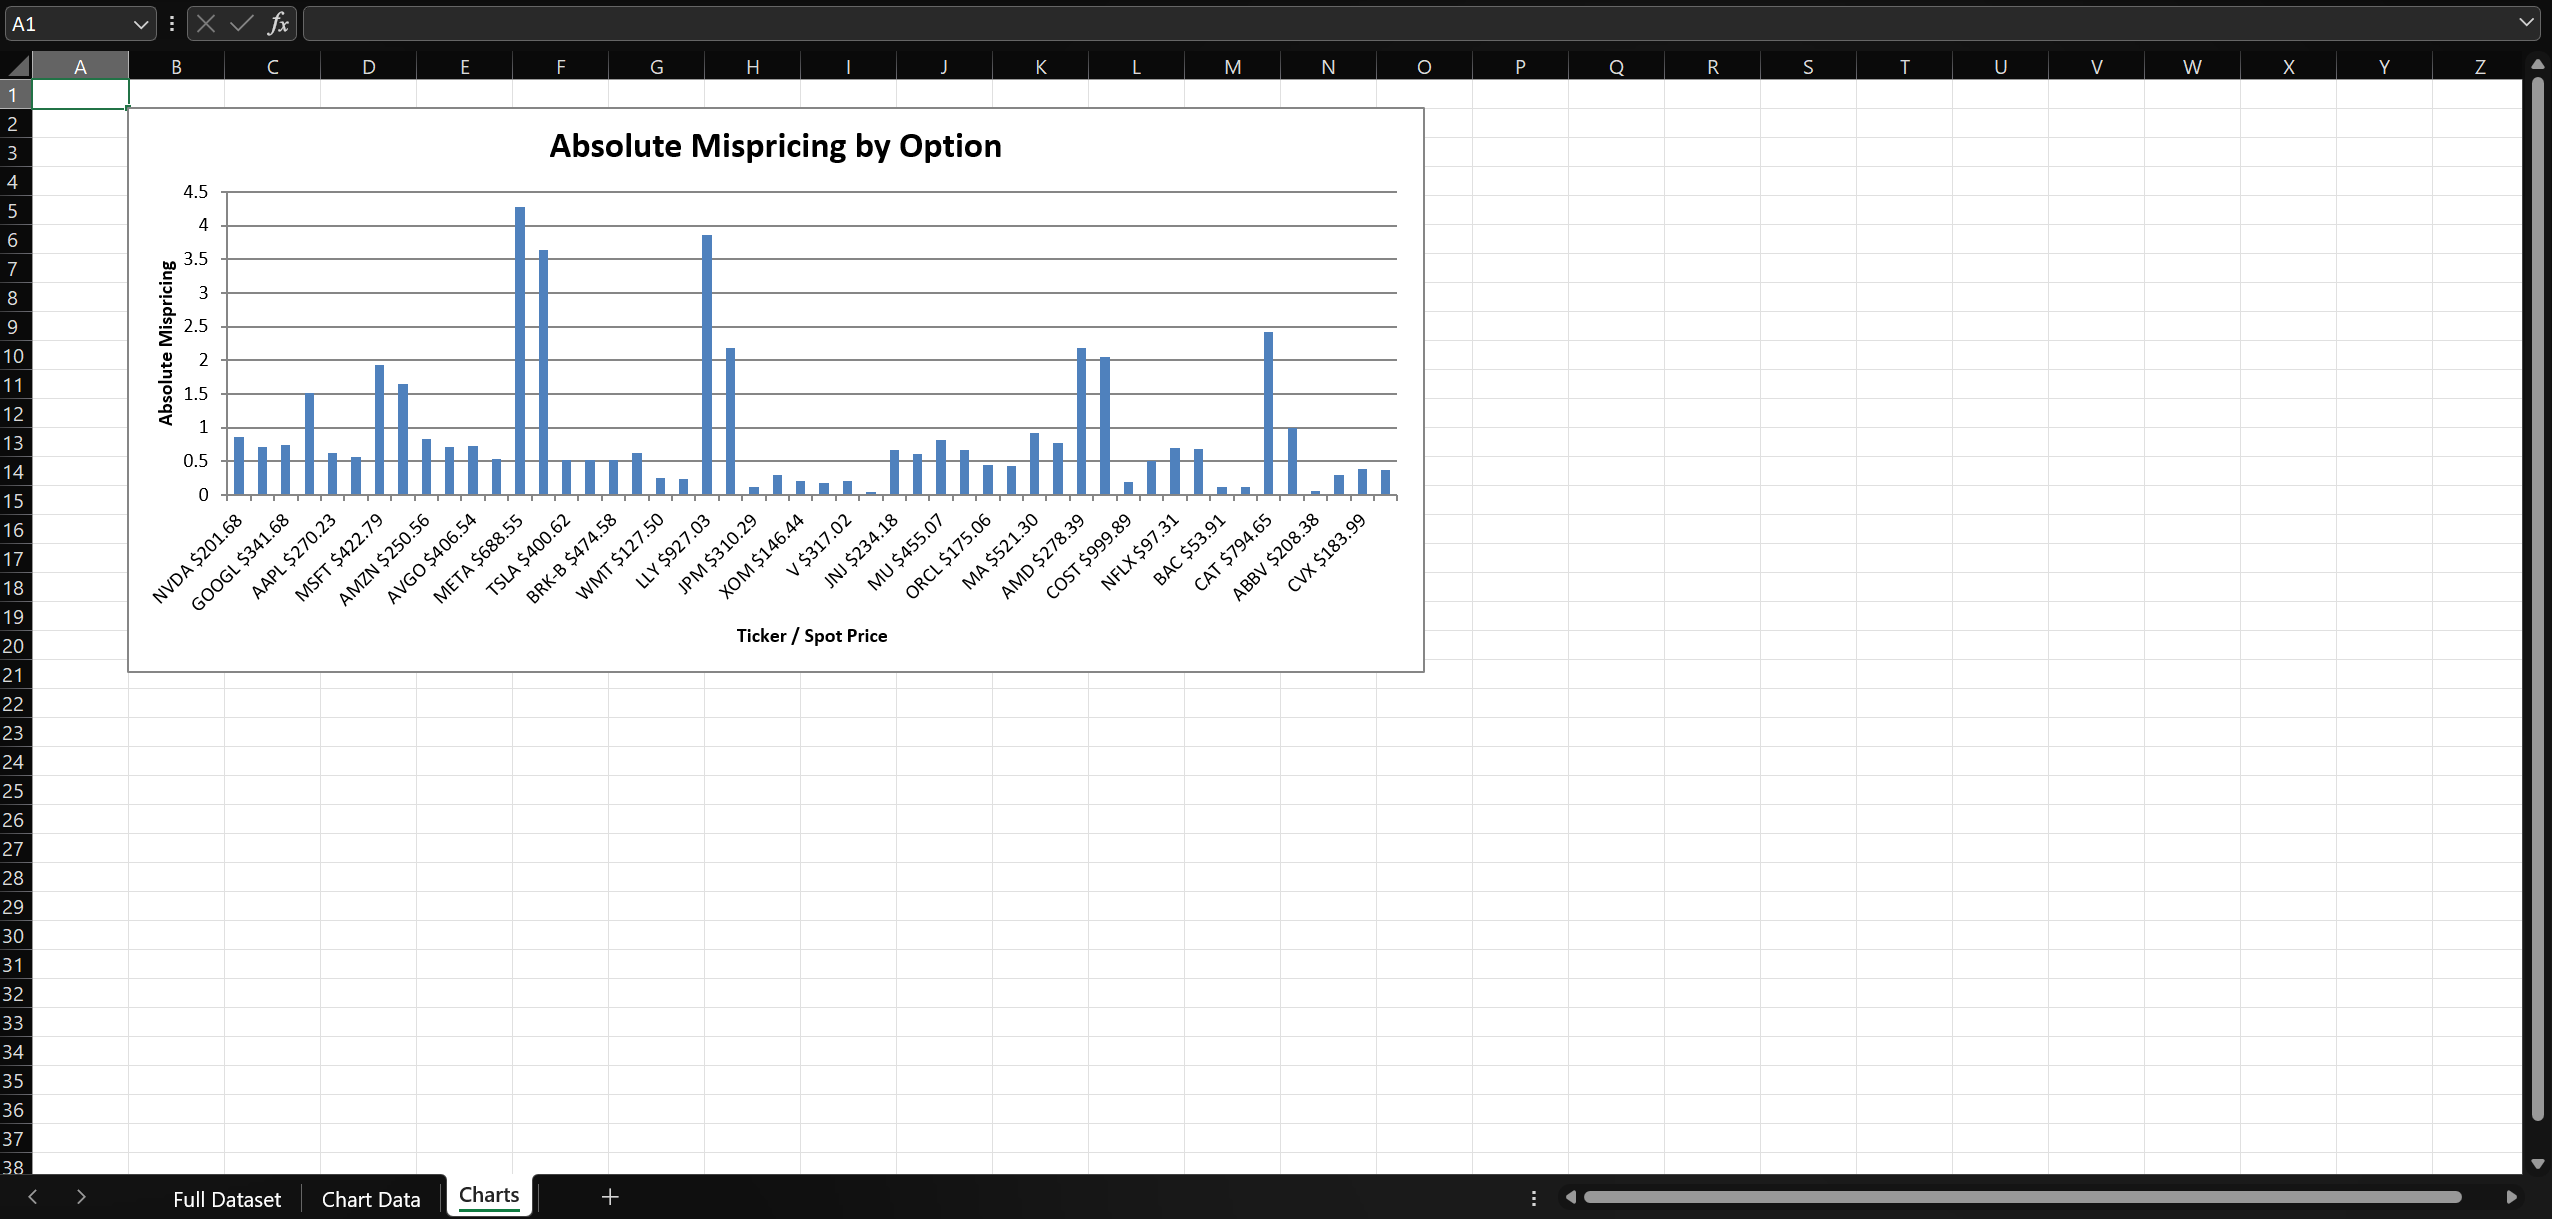
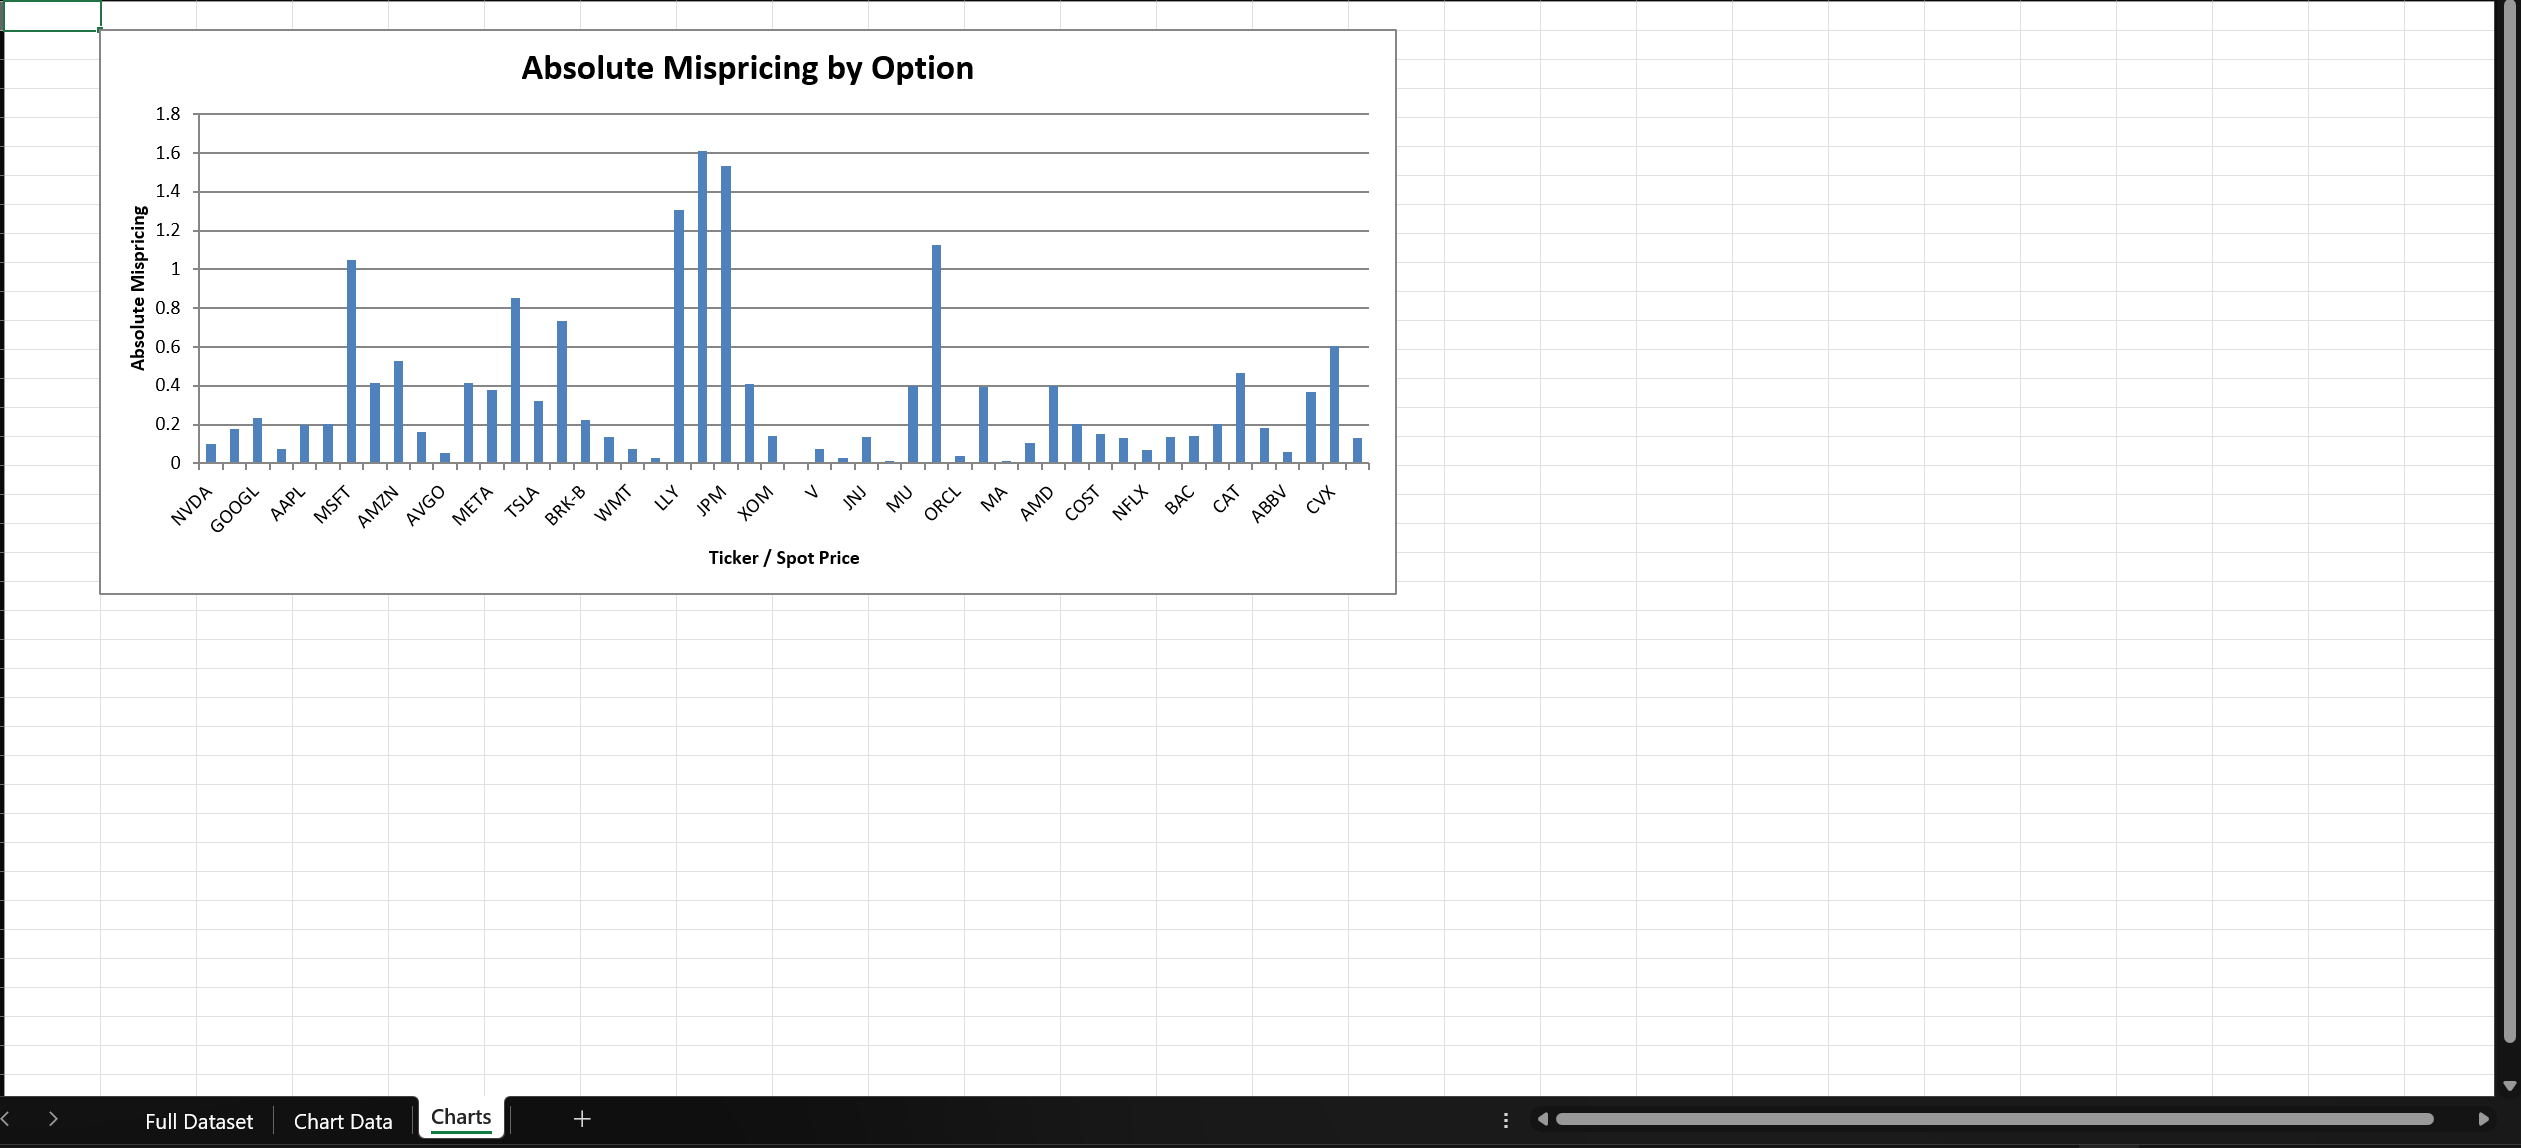
Final Working Model

Changed region(s): [[0.0, 0.0, 1.0, 1.0], [0.5569, 0.4878, 0.5879, 0.5183], [0.5569, 0.2439, 0.5879, 0.2744]]

diff --git a/main.py b/main.py
@@ -34,10 +34,9 @@ OUTPUT_COLUMNS = [
 
 def print_header() -> None:
     """Print the model overview and formula definitions shown at startup."""
-    # Print the assumptions up front so the terminal output explains itself.
     print(
         "Option Mispricing Detection Model for the 25 largest S&P 500 companies "
-        "by market cap using Black-Scholes-Merton call and put pricing with "
+        "by market cap using Black Scholes Merton call and put pricing with "
         "each side's last actively traded option implied volatility"
     )
     print()
@@ -46,13 +45,13 @@ def print_header() -> None:
     print("P = put option price")
     print("S = spot price of the underlying stock")
     print("X = strike price")
-    print("r = risk-free rate")
+    print("r = risk free rate")
     print("T = time to expiration in years")
-    print("sigma = option-chain implied volatility")
+    print("sigma = option chain implied volatility")
     print("q = continuous dividend yield")
     print("N(x) = cumulative distribution function of the standard normal distribution")
     print("e = Euler's number")
-    print("d1 and d2 = Black-Scholes-Merton distribution inputs")
+    print("d1 and d2 = Black Scholes Merton distribution inputs")
     print()
     print("C = S e^(-qT) N(d1) - X e^(-rT) N(d2)")
     print("P = X e^(-rT) N(-d2) - S e^(-qT) N(-d1)")
@@ -63,21 +62,18 @@ def print_header() -> None:
 
 
 def build_full_dataset() -> pd.DataFrame:
-    """Fetch Top 25 active options and compute BSM mispricing metrics."""
-    # Start with the fixed ticker list and collect the option rows we can price.
     companies = get_top25_companies()
     rows: list[dict[str, float | str]] = []
 
-    # Handle each ticker on its own so one bad Yahoo response does not stop the run.
     for _, company in companies.iterrows():
         ticker = str(company["Ticker"])
         market_cap = float(company["MarketCap"])
         option_rows = fetch_active_option_rows(ticker, market_cap)
+
         if not option_rows:
             print(f"{ticker}: skipped, no usable active option data")
             continue
 
-        # Add the BSM price and the gap between model price and market price.
         for row in option_rows:
             row["BSM"] = option_price(
                 float(row["Spot"]),
@@ -91,55 +87,49 @@ def build_full_dataset() -> pd.DataFrame:
             row["AbsMis"] = abs(float(row["BSM"]) - float(row["Market"]))
             rows.append(row)
 
-    # No rows means Yahoo did not return enough usable data for this run.
     if not rows:
         return pd.DataFrame()
 
-    # Keep the biggest companies first, with each ticker's call and put together.
     df = pd.DataFrame(rows)
-    return df.sort_values(["MarketCap", "Ticker", "Type"], ascending=[False, True, True]).reset_index(drop=True)
+    return df.sort_values(
+        ["MarketCap", "Ticker", "Type"],
+        ascending=[False, True, True],
+    ).reset_index(drop=True)
 
 
 def cleaned_output_df(df: pd.DataFrame) -> pd.DataFrame:
-    """Return the workbook dataset without market cap."""
-    # Drop the internal market-cap field and give the mispricing column a clearer name.
     output_df = df[OUTPUT_COLUMNS].copy()
     return output_df.rename(columns={"AbsMis": "Absolute Mispricing"})
 
 
 def save_workbook(df: pd.DataFrame, path: str = WORKBOOK_XLSX) -> None:
-    """Save Excel workbook with dataset and absolute mispricing chart."""
-    # Choose a safe output path in case the workbook is already open in Excel.
     output_path = writable_workbook_path(path)
 
-    # Prepare the data that appears in Excel and the labels used by the chart.
     output_df = cleaned_output_df(df)
+
     chart_df = output_df[["Ticker", "Spot", "Absolute Mispricing"]].copy()
     chart_df.insert(
-    0,
-    "Label",
-    output_df["Ticker"] + " " + output_df["Type"].str.upper(),
-)
+        0,
+        "Label",
+        output_df["Ticker"] + " "
+    )
 
-    # Write the dataset, chart helper data, and chart into separate sheets.
     with pd.ExcelWriter(output_path, engine="xlsxwriter") as writer:
         output_df.to_excel(writer, sheet_name="Full Dataset", index=False)
         chart_df.to_excel(writer, sheet_name="Chart Data", index=False)
 
-        # Grab the workbook and sheets so we can format them after writing.
         workbook = writer.book
         dataset_sheet = writer.sheets["Full Dataset"]
         chart_data_sheet = writer.sheets["Chart Data"]
         charts_sheet = workbook.add_worksheet("Charts")
 
-        # Reuse these formats anywhere the workbook shows money, percent, or decimals.
         money_format = workbook.add_format({"num_format": "$#,##0.00"})
         percent_format = workbook.add_format({"num_format": "0.00%"})
         number_format = workbook.add_format({"num_format": "0.0000"})
 
-        # Freeze headers and size columns so the workbook opens cleanly.
         dataset_sheet.freeze_panes(1, 0)
         chart_data_sheet.freeze_panes(1, 0)
+
         dataset_sheet.set_column("A:B", 12)
         dataset_sheet.set_column("C:C", 16)
         dataset_sheet.set_column("D:D", 22)
@@ -154,7 +144,6 @@ def save_workbook(df: pd.DataFrame, path: str = WORKBOOK_XLSX) -> None:
         abs_mis_col = chart_df.columns.get_loc("Absolute Mispricing")
         label_col = chart_df.columns.get_loc("Label")
 
-        # Add a simple bar chart showing where the largest pricing gaps are.
         bar = workbook.add_chart({"type": "column"})
         bar.add_series(
             {
@@ -163,50 +152,44 @@ def save_workbook(df: pd.DataFrame, path: str = WORKBOOK_XLSX) -> None:
                 "values": ["Chart Data", 1, abs_mis_col, rows - 1, abs_mis_col],
             }
         )
+
         bar.set_title({"name": "Absolute Mispricing by Option"})
         bar.set_x_axis({"name": "Ticker / Spot Price"})
         bar.set_y_axis({"name": "Absolute Mispricing"})
         bar.set_legend({"none": True})
+
         charts_sheet.insert_chart("B2", bar, {"x_scale": 1.8, "y_scale": 1.35})
 
     print(f"\nSaved {output_path}")
 
 
 def writable_workbook_path(path: str) -> str:
-    """Return a writable workbook path, falling back when the target is open."""
-    # Opening in append mode tells us whether Excel has locked the file.
     target = Path(path)
     try:
         with target.open("a+b"):
             pass
         return str(target)
     except PermissionError:
-        # If it is locked, save a timestamped copy instead of crashing.
         timestamp = datetime.now().strftime("%Y%m%d_%H%M%S")
         fallback = target.with_name(f"{target.stem}_{timestamp}{target.suffix}")
-        print(f"\n{target} is locked, likely open in Excel. Saving to {fallback} instead.")
+        print(f"\n{target} is locked, saving to {fallback} instead.")
         return str(fallback)
 
 
 def money(value: float) -> str:
-    """Format a number as a two-decimal dollar amount without the dollar sign."""
-    # Keep all printed dollar values in the same style.
     return f"{value:,.2f}"
 
 
 def print_original_style_results(df: pd.DataFrame) -> None:
     """Print one original-style call/put summary per ticker."""
-    # Print one combined call/put summary for each ticker.
     for ticker, group in df.groupby("Ticker", sort=False):
         call = group[group["Type"] == "call"]
         put = group[group["Type"] == "put"]
 
-        # Pull the shared ticker fields and allow for a missing call or put.
         first = group.iloc[0]
         call_row = call.iloc[0] if not call.empty else None
         put_row = put.iloc[0] if not put.empty else None
 
-        # Format each side only if that option type was found.
         market_call = money(float(call_row["Market"])) if call_row is not None else "n/a"
         market_put = money(float(put_row["Market"])) if put_row is not None else "n/a"
         bsm_call = money(float(call_row["BSM"])) if call_row is not None else "n/a"
@@ -214,9 +197,9 @@ def print_original_style_results(df: pd.DataFrame) -> None:
         call_mis = money(float(call_row["BSM"] - call_row["Market"])) if call_row is not None else "n/a"
         put_mis = money(float(put_row["BSM"] - put_row["Market"])) if put_row is not None else "n/a"
 
-        # Show a compact summary for this ticker in the terminal.
         print(f"\n{ticker}")
         print(f"  Market cap: ${money(float(first['MarketCap']))}")
+
         active_call = (
             f"{call_row['ContractSymbol']} (last traded {call_row['LastTradeDate']})"
             if call_row is not None
@@ -228,10 +211,13 @@ def print_original_style_results(df: pd.DataFrame) -> None:
             else "n/a"
         )
         print(f"  Active Yahoo call / put: {active_call} / {active_put}")
+
         print(f"  Spot price: ${money(float(first['Spot']))}")
+
         call_strike = money(float(call_row["Strike"])) if call_row is not None else "n/a"
         put_strike = money(float(put_row["Strike"])) if put_row is not None else "n/a"
         print(f"  Strike call / put: ${call_strike} / ${put_strike}")
+
         call_expiry = (
             f"{call_row['Expiry']} ({float(call_row['t(years)']):.4f} years)"
             if call_row is not None
@@ -243,22 +229,20 @@ def print_original_style_results(df: pd.DataFrame) -> None:
             else "n/a"
         )
         print(f"  Expiry call / put: {call_expiry} / {put_expiry}")
+
         call_volatility = f"{float(call_row['Volatility']):.2%}" if call_row is not None else "n/a"
         put_volatility = f"{float(put_row['Volatility']):.2%}" if put_row is not None else "n/a"
         print(f"  Implied volatility call / put: {call_volatility} / {put_volatility}")
+
         print(f"  Dividend yield: {float(first['DividendYield']):.2%}")
+
         print(f"  Market call / put: ${market_call} / ${market_put}")
         print(f"  BSM call / put: ${bsm_call} / ${bsm_put}")
         print(f"  Mispricing call / put: ${call_mis} / ${put_mis}")
-
-
 def run_engine() -> None:
-    """Run the complete command-line workflow."""
-    # Show the setup first, then fetch live market data.
     print_header()
     print(f"Risk-free rate assumption: {RISK_FREE_RATE:.2%}")
 
-    # Build results, print them, and save the workbook when data is available.
     df = build_full_dataset()
     if df.empty:
         print("\nNo data found")
